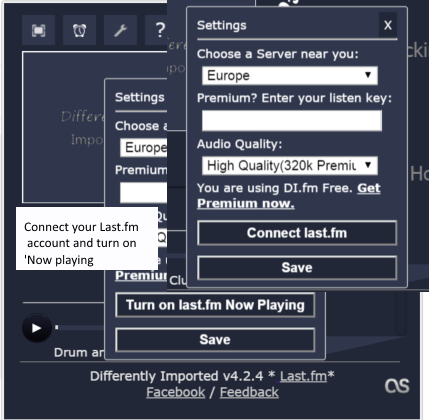
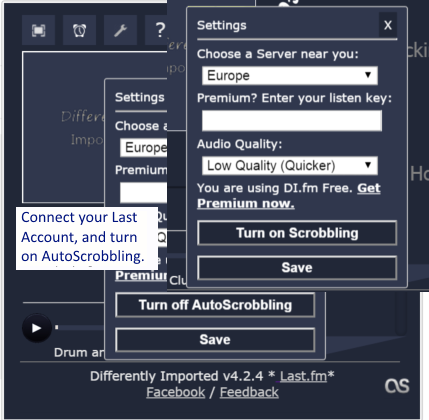
Last.fm liked, and scrobbly UI improvements

diff --git a/player.js b/player.js
@@ -93,7 +93,7 @@ $(document).ready(function () { //Set some vars
         });
     }
 
-    motd = "<span>Differently Imported v4.2.4 *<a href='support.html' target='_blank'> <span style='color:#cdcdcd; text-decoration: underline;'>Last.fm</span></a>*<br /><a href ='https://www.facebook.com/DifferentlyImported' target='_blank'> <span style='color:#cdcdcd;  text-decoration: underline;'>Facebook</span></a> / <a href='https://chrome.google.com/webstore/detail/differently-imported-for/bnihjdccalbcoienhgcjjlilfdhacdkf' target='_blank'> <span style='color:#cdcdcd; text-decoration: underline;'>Feedback</span></a></span>";
+    motd = "<span>Differently Imported v4.2.4 *<a href='support.html#ls' target='_blank'><span style='color:#cdcdcd; text-decoration: underline;'>Last.fm</span></a>*<br /><a href ='https://www.facebook.com/DifferentlyImported' target='_blank'> <span style='color:#cdcdcd;  text-decoration: underline;'>Facebook</span></a> / <a href='https://chrome.google.com/webstore/detail/differently-imported-for/bnihjdccalbcoienhgcjjlilfdhacdkf' target='_blank'> <span style='color:#cdcdcd; text-decoration: underline;'>Feedback</span></a></span>";
     $.cookie("diChTn", motd, {
         expires: 365
     });
@@ -419,7 +419,7 @@ function doCallbackJS(data, method) {
     if (datafornow["error"] == 9) {
         console.log('autherror');
         alert('Last.FM has been disconnected from Differently Imported. Please reconnect through \'Settings\'');
-        $.cookie("lastSK", '', {
+        $.cookie("lastSKey", '', {
             expires: 0
         });
         $.cookie("lastToken", '', {
@@ -427,12 +427,16 @@ function doCallbackJS(data, method) {
         });
     }
     if (method == 'auth.getSession') {
-        $.cookie("lastSK", datafornow['session']['key'], {
+        $.cookie("lastSKey", datafornow['session']['key'], {
             expires: 365
         });
         $.cookie("lastToken", last_response['lt'], {
             expires: 365
         });
+        $.cookie("lastUsername", datafornow['session']['name'], {
+            expires: 365
+        });
+        
     }
 
     /*
@@ -442,7 +446,21 @@ function doCallbackJS(data, method) {
     */
     else if (method == 'track.updateNowPlaying') {
         console.log('Now Playing Captured');
-    } else if (method == 'track.getInfo') {
+    } 
+    else if (method =='track.love' || method =='track.unlove'){
+        trackgetInfo(last_response['last_np_artist'], last_response['last_np_track']);
+        
+    }
+
+    else if (method == 'track.getInfo') {
+        
+        if (typeof datafornow['track']['userloved'] !== 'undefined'){
+             $.cookie('lastLiked', datafornow['track']['userloved'],{
+                 'expires': 1
+             });
+        }
+       
+        
         if (last_response['nextFunc'] == 'track.scrobble') {
             last_response['nextFunc'] = 0;
             params = {
@@ -451,22 +469,23 @@ function doCallbackJS(data, method) {
                 'track': datafornow['track']['name'],
                 'chosenByUser': '0',
                 'timestamp': Math.floor((new Date).getTime() / 1000),
-                'sk': $.cookie("lastSK")
+                'sk': $.cookie("lastSKey")
             }
             console.log(params);
             result = last_call('track.scrobble', params, true);
-        } else if (last_response['nextFunc'] == 'track.updateNowPlaying') {
+        } 
+        
+        else if (last_response['nextFunc'] == 'track.updateNowPlaying') {
             last_response['nextFunc'] = 0;
             params = {
                 'token': $.cookie("lastToken"),
                 'artist': datafornow['track']['artist']['name'],
                 'track': datafornow['track']['name'],
-                'sk': $.cookie("lastSK")
+                'sk': $.cookie("lastSKey")
             }
             console.log(params);
             result = last_call('track.updateNowPlaying', params, true);
         }
-
 
     } else if (method == 'track.scrobble') {
         console.log('Scrobbled');
@@ -491,6 +510,30 @@ last_response['last_np_artist'] = val.artist;
     trackgetInfo(last_response['last_np_artist'], last_response['last_np_track']);
     last_response['nextFunc'] = 'track.scrobble';
 }
+function likeage() {
+    /*
+                            
+*/
+    
+   
+    if ($.cookie('lastLiked') == '1'){
+        
+       thefunk= 'track.unlove';
+    }
+    else{
+        
+        thefunk = 'track.love';
+    }
+      params = {
+                'token': $.cookie("lastToken"),
+                'artist': last_response['last_np_artist'],
+                'track': last_response['last_np_track'],
+                'sk': $.cookie("lastSKey")
+            }
+            console.log(params);
+            result = last_call(thefunk, params, true);
+   
+}
 var tl;
 var ts;
 var tp;
@@ -511,6 +554,10 @@ function showTrack() { // tracklist api call. timed with flags to stop server ha
                 if (key == chId) {
                     tl = val.duration;
                     ts = val.started;
+                    if (last_response['last_np_artist'] != val.artist){
+                        $.cookie('lastLiked', '0', {'expires': 365});
+                        
+                    }
                     tr = "<span title='" + val.track + "'>" + val.track + "</span>";
                     tp = val.art_url;
                     last_response['last_np_artist'] = val.artist;
@@ -560,14 +607,21 @@ track[i] (Required) : The track name.
 utocorrect[0|1] (Op
 api_key (Required) : A Last.fm API key.
 */
-
     params = {
         'artist': last_response['last_np_artist'],
         'track': last_response['last_np_track'],
-        'autocorrect': 1
+        'autocorrect': 1,
+        'username': $.cookie('lastUsername')
     }
-    method = 'track.getInfo';
-    result = last_call(method, params, false);
+
+      
+ method = 'track.getInfo';
+ result = last_call(method, params, false);
+      
+    
+
+ 
+
 
 }
 npt = "";
@@ -593,6 +647,9 @@ function nowplayLast() {
             npt = last_response['last_np_track'];
             trackgetInfo(last_response['last_np_artist'], last_response['last_np_track']);
             last_response['nextFunc'] = 'track.updateNowPlaying';
+            setTimeout(function(){
+                scrobblage();
+            }, 1500);
         }
     }
 }

diff --git a/support.html b/support.html
@@ -37,23 +37,21 @@
 <title>Differently Imported Support</title>
 </head>
 <body>
-
+<a name="helpm">
 
 <div class="list" style="margin:0 auto; width:600px; font-size:16px;">
 <h1>Differently Imported for DI.fm</h1>
+<h2><a href="#ls">Last.fm Setup</a>&nbsp;&nbsp;&nbsp;<a href="#helpm">Help</a>&nbsp;&nbsp;&nbsp; <a href="#helpr">Revision History</a> </h2>
+<br>
+
 
 <strong>Update: V4.2.4 -</strong><br>
 Last.fm Scrobbling!<br />
-Scrobble your favourite tracks, and activate 'Now Playing' to automatically keep your last.fm playlist in sync with DI.fm<br />
+Scrobble your tracks and Love your favourites. Keep your last.fm playlist in sync with DI.fm<br />
 
-<br />
-<div id="helpoverlay" style="width:400px;height:400px; background-image:url('lasth.png');"></div>
-<br />
-<div id="helpoverlay" style="width:430px;height:400px; background-image:url('lasthc.png');"></div>
-<br />
+<h1> Help!</h1> 
 
-
-<a href="https://www.facebook.com/DifferentlyImported" target="_blank">Ask me anything on Facebook if you can't find what you need here.</a><br />
+<h3><a href="https://www.facebook.com/DifferentlyImported" target="_blank">Ask me anything on Facebook if you can't find what you need here.</a></h3><br />
 I will update this help document more thoroughly as I get round to it. 
 <br />
 <br />
@@ -135,8 +133,34 @@ Once on the Extensions page, click 'Keyboard Shortcuts' at the bottom to choose 
 <br />
 <br />
 
+<a name="ls">
+
+<h1> Last.fm Setup</h1><a href="#helpm">Back to top</a>
+<h4>It's taken a good few days of using last.fm to actually understand what the hell I should be including with it. Apologies for the quick triple-update turnaround and especially if you have had to re-auth for this Liked update. No other way around it. This is the last and only time i'll have to force this.<br>Please feedback, positive or negative, any thoughts on the last.fm features. You're welcome to drop me a comment on facebook as always and help make the app the best it can be. Thanks.</h4>
+
+
+
+<br><b>Scrobbling common Answers:</b>
+<li>Hit settings to connect your account. You must close all the last.fm popups before DI will pick up your account. If you open DI before the tab has closed, the auth may not take effect and you'll have to repeat the process. </li>
+<li>You will know registration has worked by the 'Loved' and the 'Last.fm' Icon showing up. </li>
+<li>If you want scrobbling to be automatic, nip into settings and set the option as soon as you're registered. </li>
+<li> Scrobbling can be automatic, or manually chosen per-song. If it's automatic, the Loved Icon also lights up to show a previously loved track.</li>
+<li>Manual scrobbling means the App will not speak to Last.fm until you tell it to, so it can't tell if you already like a track until you click to scrobble.</li>
+<li>Some tracks are not recognised by Last.fm. These will still be scrobbled, but will not be able to be 'Loved'.  -- There is already enough bumf on the screen so there is no feedback if this happens other than the loved icon will not illuminate. </li>
+<br />
+<br />
+<br />
+<h3>Choose your options</h3>
+<div id="helpoverlay" style="width:400px;height:390px; background-image:url('lasth.png'); background-size:100%;"></div>
+<br />
+<h3>Keep your playlist up to date</h3>
+
+<div id="helpoverlay" style="width:430px;height:440px; background-image:url('lasthc.png');background-size:100%;"></div>
+<br />
+
+<a name="helpr">
 <h3>
-Previous Feature List:</h3><hr>
+Previous Feature List:</h3><a href="#helpm">Back to top</a><hr>
 
 New Feature! <br />
 Ctrl and Doubleclick anywhere on the player to open it as an App in a new window! 

diff --git a/di.js b/di.js
@@ -66,11 +66,22 @@ $(document).ready(function () {
         //.popup_last,#doScrob
 
         if ($.cookie('lastSK') != null) {
+            $.cookie('lastSK', '', {
+                'expires':0
+            });
+            alert('Following feedback, the option to "love" and "unlove" tracks is here. However your last.fm account needs to be reconnected. Please head to settings and reconnect your account to continue Scrobbling. Check out "Help" -> "Last.fm setup" to read about the changes.');
+        }
+ 
+        if ($.cookie('lastSKey') != null) {
+             $('#doLike').css('display', 'block');
+             $('#track').css('width', '365px');
             $('.popup_last').css('display', 'none');
-            $('#doScrob').css('display', 'block');
             $('#npScrob').css('display', 'block');
             if ($.cookie('lastNP') == true) {
-                $('.lastNP').text('Turn off last.fm Now Playing');
+                $('.lastNP').text('Turn off AutoScrobbling');
+            }
+            else{
+                  $('#doScrob').css('display', 'block');
 
             }
 
@@ -172,16 +183,19 @@ $(document).ready(function () {
         }
         $('.lastNP').click(function () {
             if ($.cookie('lastNP') == '1') {
-                $('.lastNP').text('Turn on last.fm Now Playing');
+                $('.lastNP').text('Turn on Scrobbling');
                 $.cookie("lastNP", "0", {
                     expires: 365
                 });
+                  $('#doScrob').css('display', 'block');
 
             } else {
-                $('.lastNP').text('Turn off last.fm Now Playing');
+                $('.lastNP').text('Turn off AutoScrobbling');
                 $.cookie("lastNP", "1", {
                     expires: 365
                 });
+                  $('#doScrob').css('display', 'none');
+                
             }
         });
     });
@@ -241,7 +255,7 @@ $(document).ready(function () {
 
     $("#lC li").click(function () { // onClick for link to display key box
 
-
+        $.cookie('lastLiked','0',{'expires': 365})
         $.cookie("diChImage", $(this).attr("data-image"), {
             expires: 365
         }); // Store key for next time.
@@ -249,6 +263,7 @@ $(document).ready(function () {
         $.cookie("diChPt", $(this).text(), {
             expires: 365
         });
+        
         $("#miniChannel").text($(this).text());
         $.cookie("diChan", $(this).attr("data-trigger"), {
             expires: 365
@@ -299,6 +314,16 @@ $(document).ready(function () {
     }, 500);
 
     function getTn() {
+        if (typeof $.cookie('lastLiked') !== 'undefined'){
+            if ($.cookie('lastLiked') == '1'){
+                $('#doLike').css({'opacity': '1'});
+                $('#doLike').attr('title', 'Unlove this');
+            }
+            else{
+                $('#doLike').css({'opacity': '0.3'});
+                $('#doLike').attr('title', 'Last.fm: love this track');
+            }
+        }
         $('#vol').val($.cookie("diVol"));
         chrome.runtime.sendMessage({
             play: "3"
@@ -598,9 +623,18 @@ $(document).ready(function () {
         storedhtml = $("#track").html();
         setTimeout(function () {
             $("#track").html(storedhtml);
-        }, 150);
+        }, 250);
         $("#track").html('Scrobbled');
         bg.scrobblage();
+    });
+    
+    $("#doLike").click(function () {
+        storedhtml = $("#track").html();
+        setTimeout(function () {
+            $("#track").html(storedhtml);
+        }, 250);
+        $("#track").html('Liked');
+        bg.likeage();
     });
 
 

diff --git a/popup.html b/popup.html
@@ -85,7 +85,7 @@ Settings<hr>
 		
 		<div id="nag" style="display:none">You are using DI.fm Free. <a href="http://di.fm/premium" target="_blank">Get Premium now. </a></div>
         <button title="Connect last.fm" class="popup_last save">Connect last.fm</button>
-        <button title="Enable/DisablevNow Playing" id = 'npScrob' style="display:none;" class="lastNP save">Turn on last.fm Now Playing</button>
+        <button title="Enable/ Disable Automatic Scrobbling" id = 'npScrob' style="display:none;" class="lastNP save">Turn on Scrobbling</button>
 
 		<button id="saveS" class="mouselight save">Save</button>
 		</div>
@@ -496,6 +496,10 @@ Stop in <select id="sleepBox" class="" style = "width:70px;">
 
 	<div id ="track">
 	</div>
-    <div title="Scrobble this track" id = "doScrob" style="display:none; position:fixed; height:20px; width:28px; left:380px; top:385px; background:url('last.png'); background-size: 100%; cursor:pointer; background-color:#212737" class="mouselight"></div>
+     <div title="Last.fm: Love this track" id = "doLike" style="display:none; position:fixed; height:20px; width:18px; left:387px; top:380px; background:url('heart_32.png'); background-size: 100%;opacity:0.3;  background-repeat:no-repeat; cursor:pointer; background-color:#212737" class="mouselight"></div>
+     
+    <div title="Last.fm: Scrobble this track" id = "doScrob" style="display:none; position:fixed; height:20px; width:23px; left:385px; top:400px; background:url('last.png'); background-size: 100%; cursor:pointer; opacity:0.9; background-color:#212737; background-repeat:no-repeat;" class="mouselight"></div> 
+    
+   
 </div>	
 	
